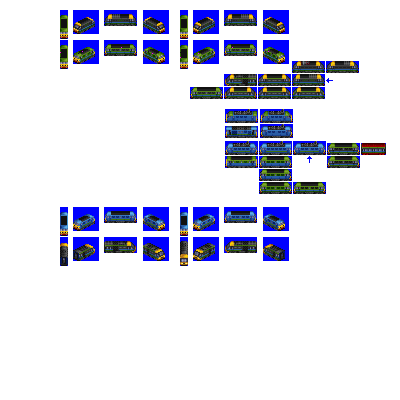
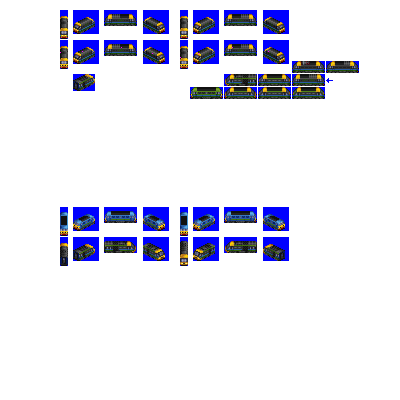
Change: sprites complete for Avenger

diff --git a/src/vehicles/avenger.py b/src/vehicles/avenger.py
@@ -13,7 +13,7 @@ def main(roster_id):
                             gen=5,
                             pantograph_type='z-shaped-single',
                             intro_date_offset=-2, # introduce slightly earlier than gen epoch by design
-                            sprites_complete=False)
+                            sprites_complete=True)
 
     consist.add_unit(type=ElectricEngineUnit,
                      weight=100,
